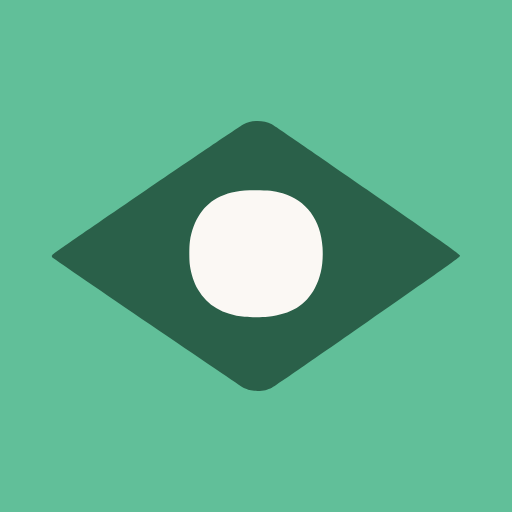
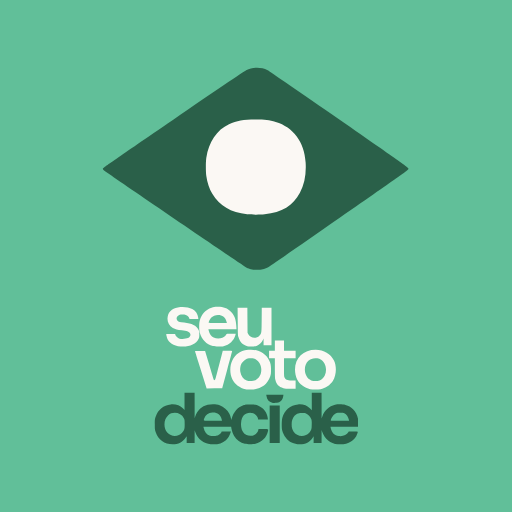
Add files via upload

Changed region(s): [[0.0938, 0.125, 0.9062, 0.875]]

diff --git a/public/index.html b/public/index.html
@@ -7,16 +7,18 @@
   <meta name="description" content="Comunicação popular, criadores de conteúdo e sociedade civil para converter abstenções e votos brancos e nulos e conseguir uma virada no 2º turno." />
   <meta name="theme-color" content="#61bf99" />
   <meta property="og:type" content="website" />
+  <meta property="og:site_name" content="seu voto decide" />
   <meta property="og:title" content="seu voto decide" />
   <meta property="og:description" content="Comunicação popular, criadores de conteúdo e sociedade civil para converter abstenções e votos brancos e nulos e conseguir uma virada no 2º turno." />
-  <meta property="og:image" content="https://seuvotodecide.com.br/og.png" />
+  <meta property="og:image" content="https://seuvotodecide.com.br/og.png?v=2" />
   <meta property="og:image:width" content="1200" />
   <meta property="og:image:height" content="630" />
+  <meta property="og:image:alt" content="Bandeira do seu voto decide" />
   <meta name="twitter:card" content="summary_large_image" />
-  <link rel="icon" type="image/svg+xml" href="/favicon.svg?v=3" />
-  <link rel="icon" type="image/png" sizes="32x32" href="/favicon-32.png?v=3" />
-  <link rel="icon" type="image/png" sizes="512x512" href="/icon-512.png?v=3" />
-  <link rel="apple-touch-icon" href="/apple-touch-icon.png?v=3" />
+  <link rel="icon" type="image/svg+xml" href="/favicon.svg?v=4" />
+  <link rel="icon" type="image/png" sizes="32x32" href="/favicon-32.png?v=4" />
+  <link rel="icon" type="image/png" sizes="512x512" href="/icon-512.png?v=4" />
+  <link rel="apple-touch-icon" href="/apple-touch-icon.png?v=4" />
   <link rel="preconnect" href="https://fonts.googleapis.com" />
   <link rel="preconnect" href="https://fonts.gstatic.com" crossorigin />
   <link href="https://fonts.googleapis.com/css2?family=Schibsted+Grotesk:wght@400;500;600;700;800;900&family=Piazzolla:opsz,wght@8..30,400;8..30,600&family=Spline+Sans+Mono:wght@400;500&display=swap" rel="stylesheet" />

diff --git a/public/participar.html b/public/participar.html
@@ -4,12 +4,21 @@
   <meta charset="utf-8" />
   <meta name="viewport" content="width=device-width, initial-scale=1" />
   <meta name="theme-color" content="#61bf99" />
+  <meta property="og:type" content="website" />
+  <meta property="og:site_name" content="seu voto decide" />
+  <meta property="og:title" content="seu voto decide" />
+  <meta property="og:description" content="Comunicação popular, criadores de conteúdo e sociedade civil para converter abstenções e votos brancos e nulos e conseguir uma virada no 2º turno." />
+  <meta property="og:image" content="https://seuvotodecide.com.br/og.png?v=2" />
+  <meta property="og:image:width" content="1200" />
+  <meta property="og:image:height" content="630" />
+  <meta property="og:image:alt" content="Bandeira do seu voto decide" />
+  <meta name="twitter:card" content="summary_large_image" />
   <title>Quero participar · seu voto decide</title>
   <meta name="description" content="Cadastro para participar: criadores de conteúdo e pessoas comuns." />
-  <link rel="icon" type="image/svg+xml" href="/favicon.svg?v=3" />
-  <link rel="icon" type="image/png" sizes="32x32" href="/favicon-32.png?v=3" />
-  <link rel="icon" type="image/png" sizes="512x512" href="/icon-512.png?v=3" />
-  <link rel="apple-touch-icon" href="/apple-touch-icon.png?v=3" />
+  <link rel="icon" type="image/svg+xml" href="/favicon.svg?v=4" />
+  <link rel="icon" type="image/png" sizes="32x32" href="/favicon-32.png?v=4" />
+  <link rel="icon" type="image/png" sizes="512x512" href="/icon-512.png?v=4" />
+  <link rel="apple-touch-icon" href="/apple-touch-icon.png?v=4" />
   <link rel="preconnect" href="https://fonts.googleapis.com" />
   <link rel="preconnect" href="https://fonts.gstatic.com" crossorigin />
   <link href="https://fonts.googleapis.com/css2?family=Schibsted+Grotesk:wght@400;500;600;700;800;900&family=Piazzolla:opsz,wght@8..30,400;8..30,600&family=Spline+Sans+Mono:wght@400;500&display=swap" rel="stylesheet" />

diff --git a/public/painel.html b/public/painel.html
@@ -4,13 +4,22 @@
   <meta charset="utf-8" />
   <meta name="viewport" content="width=device-width, initial-scale=1" />
   <meta name="theme-color" content="#61bf99" />
+  <meta property="og:type" content="website" />
+  <meta property="og:site_name" content="seu voto decide" />
+  <meta property="og:title" content="seu voto decide" />
+  <meta property="og:description" content="Comunicação popular, criadores de conteúdo e sociedade civil para converter abstenções e votos brancos e nulos e conseguir uma virada no 2º turno." />
+  <meta property="og:image" content="https://seuvotodecide.com.br/og.png?v=2" />
+  <meta property="og:image:width" content="1200" />
+  <meta property="og:image:height" content="630" />
+  <meta property="og:image:alt" content="Bandeira do seu voto decide" />
+  <meta name="twitter:card" content="summary_large_image" />
   <meta name="robots" content="noindex" />
   <meta name="referrer" content="no-referrer" />
   <title>Meu painel · seu voto decide</title>
-  <link rel="icon" type="image/svg+xml" href="/favicon.svg?v=3" />
-  <link rel="icon" type="image/png" sizes="32x32" href="/favicon-32.png?v=3" />
-  <link rel="icon" type="image/png" sizes="512x512" href="/icon-512.png?v=3" />
-  <link rel="apple-touch-icon" href="/apple-touch-icon.png?v=3" />
+  <link rel="icon" type="image/svg+xml" href="/favicon.svg?v=4" />
+  <link rel="icon" type="image/png" sizes="32x32" href="/favicon-32.png?v=4" />
+  <link rel="icon" type="image/png" sizes="512x512" href="/icon-512.png?v=4" />
+  <link rel="apple-touch-icon" href="/apple-touch-icon.png?v=4" />
   <link rel="preconnect" href="https://fonts.googleapis.com" />
   <link rel="preconnect" href="https://fonts.gstatic.com" crossorigin />
   <link href="https://fonts.googleapis.com/css2?family=Schibsted+Grotesk:wght@400;500;600;700;800;900&family=Piazzolla:opsz,wght@8..30,400;8..30,600&family=Spline+Sans+Mono:wght@400;500&display=swap" rel="stylesheet" />

diff --git a/public/enviar-video.html b/public/enviar-video.html
@@ -4,11 +4,20 @@
   <meta charset="utf-8" />
   <meta name="viewport" content="width=device-width, initial-scale=1" />
   <meta name="theme-color" content="#61bf99" />
+  <meta property="og:type" content="website" />
+  <meta property="og:site_name" content="seu voto decide" />
+  <meta property="og:title" content="seu voto decide" />
+  <meta property="og:description" content="Comunicação popular, criadores de conteúdo e sociedade civil para converter abstenções e votos brancos e nulos e conseguir uma virada no 2º turno." />
+  <meta property="og:image" content="https://seuvotodecide.com.br/og.png?v=2" />
+  <meta property="og:image:width" content="1200" />
+  <meta property="og:image:height" content="630" />
+  <meta property="og:image:alt" content="Bandeira do seu voto decide" />
+  <meta name="twitter:card" content="summary_large_image" />
   <title>Mandar o link do vídeo · seu voto decide</title>
-  <link rel="icon" type="image/svg+xml" href="/favicon.svg?v=3" />
-  <link rel="icon" type="image/png" sizes="32x32" href="/favicon-32.png?v=3" />
-  <link rel="icon" type="image/png" sizes="512x512" href="/icon-512.png?v=3" />
-  <link rel="apple-touch-icon" href="/apple-touch-icon.png?v=3" />
+  <link rel="icon" type="image/svg+xml" href="/favicon.svg?v=4" />
+  <link rel="icon" type="image/png" sizes="32x32" href="/favicon-32.png?v=4" />
+  <link rel="icon" type="image/png" sizes="512x512" href="/icon-512.png?v=4" />
+  <link rel="apple-touch-icon" href="/apple-touch-icon.png?v=4" />
   <link rel="preconnect" href="https://fonts.googleapis.com" />
   <link rel="preconnect" href="https://fonts.gstatic.com" crossorigin />
   <link href="https://fonts.googleapis.com/css2?family=Schibsted+Grotesk:wght@400;500;600;700;800;900&family=Piazzolla:opsz,wght@8..30,400;8..30,600&family=Spline+Sans+Mono:wght@400;500&display=swap" rel="stylesheet" />

diff --git a/public/admin.html b/public/admin.html
@@ -6,10 +6,10 @@
   <meta name="robots" content="noindex" />
   <meta name="theme-color" content="#61bf99" />
   <title>Controle · seu voto decide</title>
-  <link rel="icon" type="image/svg+xml" href="/favicon.svg?v=3" />
-  <link rel="icon" type="image/png" sizes="32x32" href="/favicon-32.png?v=3" />
-  <link rel="icon" type="image/png" sizes="512x512" href="/icon-512.png?v=3" />
-  <link rel="apple-touch-icon" href="/apple-touch-icon.png?v=3" />
+  <link rel="icon" type="image/svg+xml" href="/favicon.svg?v=4" />
+  <link rel="icon" type="image/png" sizes="32x32" href="/favicon-32.png?v=4" />
+  <link rel="icon" type="image/png" sizes="512x512" href="/icon-512.png?v=4" />
+  <link rel="apple-touch-icon" href="/apple-touch-icon.png?v=4" />
   <link rel="preconnect" href="https://fonts.googleapis.com" />
   <link rel="preconnect" href="https://fonts.gstatic.com" crossorigin />
   <link href="https://fonts.googleapis.com/css2?family=Schibsted+Grotesk:wght@400;500;600;700;800;900&family=Piazzolla:opsz,wght@8..30,400;8..30,600&family=Spline+Sans+Mono:wght@400;500&display=swap" rel="stylesheet" />
